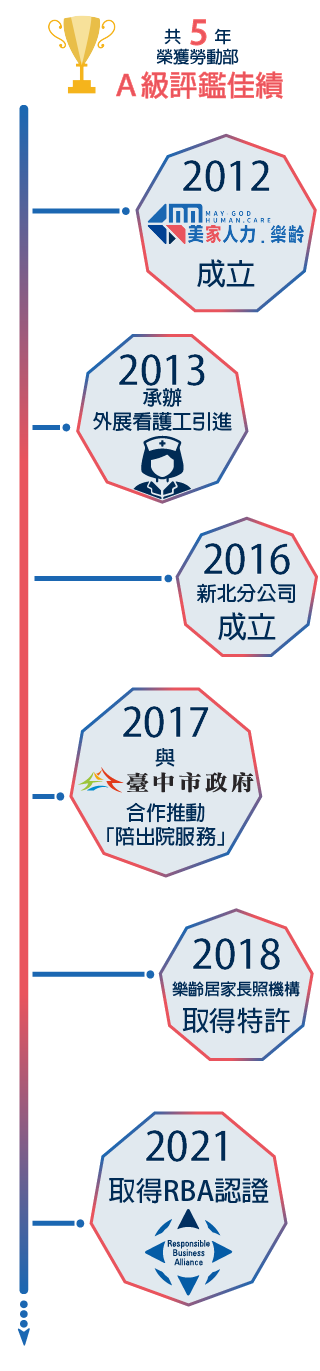
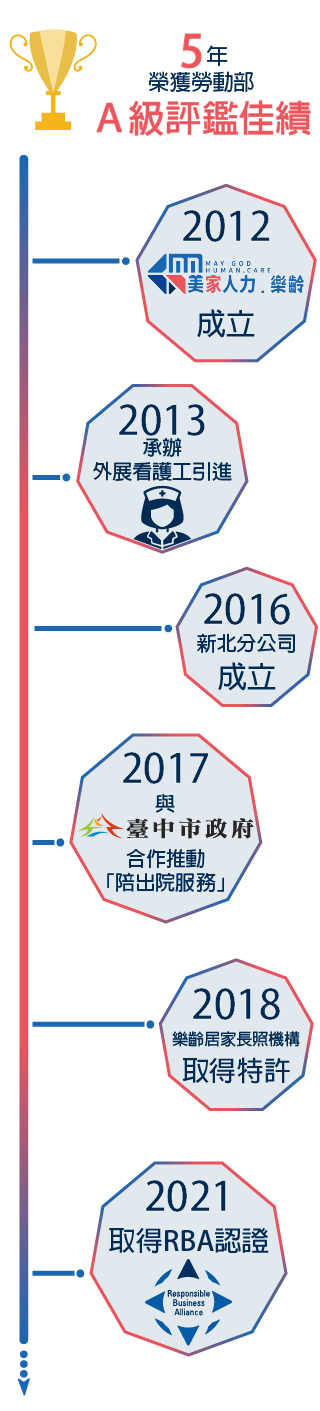
202103251530

Changed region(s): [[0.0312, 0.0, 1.0, 0.9803], [0.0625, 0.919, 0.0938, 1.0]]

diff --git a/index.html b/index.html
@@ -150,7 +150,7 @@
         
           <picture>
             <source media="(min-width: 650px)" srcset="assets/img/csr.png" />
-            <img src="assets/img/320.png" class="img-fluid float-center" alt="Sample" />
+            <img src="assets/img/csr_640.png" class="img-fluid float-center" alt="Sample" />
           </picture>                             
          
         </div>
